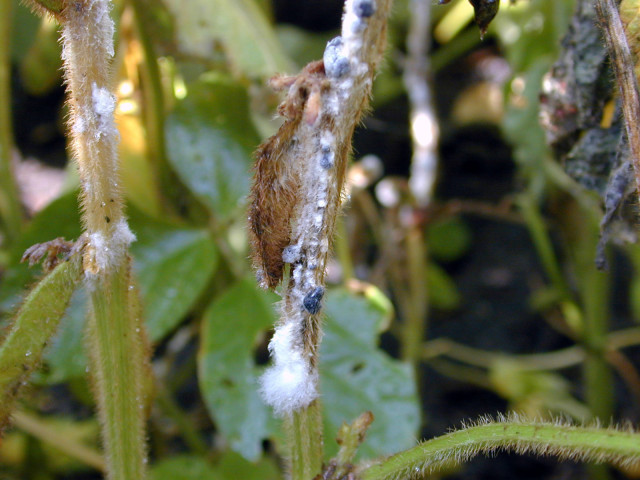
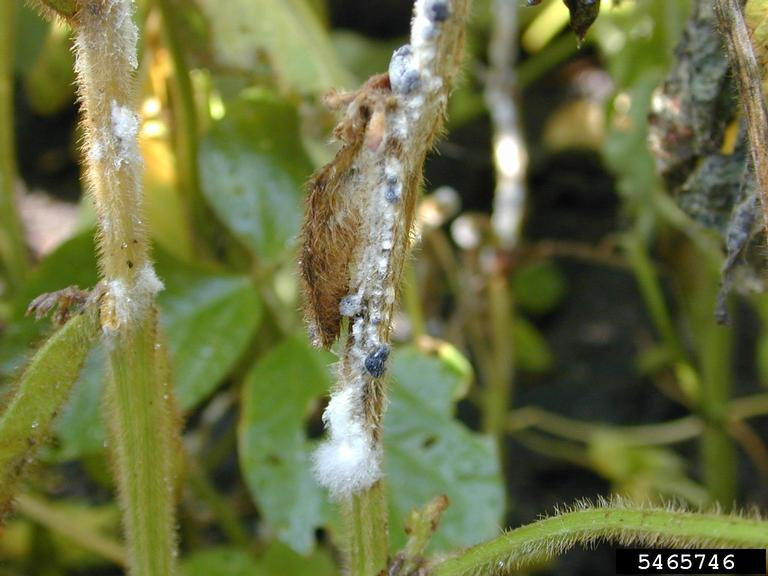
Topic pages: soybean, white mold, frogeye leaf spot, soybean Cercospora leaf blight (I2 batch 4; checked against their sources)

diff --git a/content/topics/white-mold.md b/content/topics/white-mold.md
@@ -4,23 +4,90 @@ title: White Mold (Soybean)
 kind: disease
 crops:
   - soybean
-scientific_name: ''
-summary: ''
+scientific_name: Sclerotinia sclerotiorum
+summary: A fungal disease that kills soybean plants in patches in cool, wet summers; it infects through the flowers, so fungicides and the risk forecast matter from beginning bloom (R1) to beginning pod (R3).
 image: images/white-mold.jpg
-image_credit: to confirm
+image_credit: 'White mold on soybean stems, with white fungal growth and black sclerotia. Photo by Daren Mueller, Iowa State University, Bugwood.org (image 5465746), CC BY 3.0 US (https://creativecommons.org/licenses/by/3.0/us/).'
 status: draft
-updated: 2026-11-17
+updated: 2026-11-18
 sources:
-  - Crop Risk Tool docs/white-mold.md
+  - key: smith-2026
+    text: 'Smith, D., C. Bradley, M. Chilvers and others. An Overview of White Mold (CPN-1005). Crop Protection Network, revised 2026.'
+    url: https://cropprotectionnetwork.org/publications/an-overview-of-white-mold
+  - key: watson-smith-2026
+    text: 'Watson, Q. and D. Smith. Sclerotinia Stem Rot of Soybean (UW Plant Disease Facts D0099). UW–Madison Plant Pathology, revised 2026.'
+    url: https://pddc.wisc.edu/2015/08/16/sclerotinia-stem-rot-of-soybean/
+  - key: a3646-2025
+    text: 'Dewerff, R., E. Bick, P. J. Liesch, G. Nice, M. Renz, D. Smith, R. Werle and J. Kampa. Pest Management in Wisconsin Field Crops (A3646). UW–Madison Division of Extension, 2025.'
+    url: https://cropsandsoils.extension.wisc.edu/files/2025/01/A3646_2025_web.pdf
+  - key: smith-2018
+    text: "Smith, D., S. Conley and R. Schmidt. It's Time for Fireworks and Spores To Fly: Independence Week in Wisconsin Brings White Mold Management Decisions. UW–Madison Integrated Pest and Crop Management, Wisconsin Crop Manager, 2018."
+    url: https://ipcm.wisc.edu/blog/2018/07/its-time-for-fireworks-and-spores-to-fly-independence-week-in-wisconsin-brings-white-mold-management-decisions/
+  - key: tenenbaum-2018
+    text: 'Tenenbaum, D. Phone to farmer: Fungus on the way, time to spray. UW–Madison College of Agricultural and Life Sciences, 2018.'
+    url: https://news.cals.wisc.edu/2018/12/21/phone-to-farmer-fungus-on-the-way-time-to-spray
+  - key: cpn-sporecaster
+    text: 'Smartphone Application to Forecast White Mold in Soybean Now Available to Growers. Crop Protection Network, 2019, with its 2026 update on the app.'
+    url: https://cropprotectionnetwork.org/news/smartphone-application-to-forecast-white-mold-in-soybean-now-available-to-growers
+  - key: willbur-2018
+    text: 'Willbur, J. F., M. L. Fall, C. Bloomingdale and others. Weather-Based Models for Assessing the Risk of Sclerotinia sclerotiorum Apothecial Presence in Soybean (Glycine max) Fields. Plant Disease 102: 73–84, 2018.'
+    url: https://doi.org/10.1094/PDIS-04-17-0504-RE
+  - key: uw-vegpath-potato-white-mold
+    text: 'Potato White Mold. UW–Madison Vegetable Pathology, updated 2026.'
+    url: https://vegpath.plantpath.wisc.edu/diseases/potato-white-mold/
+  - key: agweather-white-mold
+    text: 'AgWeather. White mold model: validation report. UW–Madison, 2026.'
+    url: https://github.com/uwent/agweather2/blob/main/docs/validation/models/white-mold.md
 ---
 
-**White mold** (also called _Sclerotinia_ stem rot) is a significant problem in the North Central soybean production region and Canada. Caused by the fungus _Sclerotinia sclerotiorum_, white mold is often recognized by fluffy, white growth on soybean stems. Initial symptoms generally develop from R3 to R6 as gray to white lesions at the nodes. Lesions rapidly progress above and below the nodes, sometimes girdling the stem. White, fluffy mold soon covers the infected area, especially during periods of high relative humidity. Characteristic black sclerotia eventually are visible and embedded within mold on stem lesions, and inside the stem as the plant approaches death. Initial foliar symptoms include leaf tissues between major veins turning a gray-green cast; eventually leaves die and turn completely brown while remaining attached to the stem. Pods affected by white mold generally contain seeds that are smaller, lighter, white, and cottony. Seeds may be replaced by sclerotia. It is unusual for an infected seed to look normal. Soybean seed lots can be contaminated with sclerotia, the survival structures produced by _S. sclerotiorum_ in infected plants.
+White mold, also called Sclerotinia stem rot, is a disease of soybean caused by the fungus _Sclerotinia sclerotiorum_. It is a major soybean disease in the northern United States and Canada, and it is worst in cool, wet summers, in high-yielding fields with dense canopies. The same fungus attacks most broadleaf crops, including potato, snap bean, carrot, pea and the cabbage family, as well as many broadleaf weeds.[^smith-2026][^watson-smith-2026]
 
-The fungus survives in the soil for several years as sclerotia. The disease cycle begins when mushroom-like structures called apothecia are formed on the soil surface from sclerotia. Spores from apothecia infect senescing soybean flowers and the fungus eventually grows to the stem. The disease is more prevalent during cool, wet, or humid seasons and in fields where the canopy closes during soybean flowering and early pod development.
+## Identification
 
-No soybean variety is completely resistant to white mold, but varieties do range from moderately resistant to very susceptible. At least two or three years of a non-host crop can reduce the number of sclerotia in soil. Crops that should not be in rotation with soybean in fields with white mold risk are beans, peas, sunflowers, and cole crops (mustard or Brassicaceae family). More sclerotia are found near the soil surface in no-till systems, but sclerotia numbers begin to decline if left undisturbed. Early planting, narrow row width, and high plant populations all accelerate canopy closure and favor disease development. However, modification of these practices also may reduce yield potential. Weed control is critical as many broadleaf weeds are hosts of the white mold pathogen. Also, some herbicides may suppress the activity of the fungus or disrupt germination of sclerotia. Some antagonistic fungi may be applied to the soil to colonize and reduce sclerotia numbers. Foliar fungicides can manage white mold, or at least reduce disease severity; however, application timing is critical. Fungicides are most effective when applied immediately before infection.
+- **On stems:** the first sign is a water-soaked patch at a node. It grows up and down the stem until it girdles it, and the stem dies, bleached and shredded.[^smith-2026]
+- **Fungal growth:** in humid weather, white cottony growth covers the lesions. Hard black bodies about the size of mouse droppings, called sclerotia, form on and inside the stems and pods; split a stem to find them.[^watson-smith-2026][^smith-2026]
+- **Whole plants:** leaves on infected stems wilt suddenly and die, and plants wilt, lodge and die, often in patches.[^watson-smith-2026][^smith-2026]
+- **Look-alikes:** white mold can be confused with Phytophthora root rot, so look closely at affected plants.[^a3646-2025]
 
-## More information
+## Life cycle
 
-- Willbur et al 2018: Weather-based models for assessing the risk of Sclerotinia sclerotiorum apothecial presence in soybean (Glycine max) fields <https://doi.org/10.1094/PDIS-04-17-0504-RE>
-- Crop protection network: <https://cropprotectionnetwork.org/encyclopedia/white-mold-of-soybean>
+The fungus survives in the soil as sclerotia for five years or more, and some survive at least eight.[^watson-smith-2026][^smith-2026] Sclerotia in the top 2 inches of soil sprout into small, mushroom-like cups called apothecia when the soil is shaded, moist and cool, which usually means after the crop canopy has closed. The cups release spores (ascospores) that infect open or dying flowers, and the fungus grows from the flower into the stem.[^smith-2026][^watson-smith-2026]
+
+Apothecia are favored when the 30-day average of the daily high temperature is below 68 °F (20 °C), although in irrigated fields they can form even when it is above 80 °F (27 °C). Infection is favored by daily highs below 85 °F and frequent moisture. The risk is highest during flowering, from beginning bloom (R1) to beginning pod (R3), especially under a dense, nearly closed canopy.[^smith-2026] UW–Madison's guide puts it in Wisconsin terms: the risk rises when the 30-day average temperature is 70 °F or below and the weather is wet in the 30 days before bloom, and rises further if it stays wet or humid during bloom.[^a3646-2025]
+
+Practices that raise yield also raise the risk: narrow rows, early planting, more than 160,000 plants per acre, irrigation and high soil fertility.[^a3646-2025]
+
+## Damage
+
+White mold reduces yield through fewer and lighter seeds. Sclerotia mixed in harvested grain can bring price discounts at the elevator, and infected seed may germinate poorly.[^smith-2026] Across the United States, white mold reduces the soybean crop by up to 1 million metric tons a year.[^willbur-2018]
+
+## Monitoring
+
+- Keep records of white mold in each field and variety. A field's history, the variety's resistance and the weather before and during bloom decide whether a fungicide is likely to pay.[^smith-2026][^a3646-2025]
+- From beginning bloom, watch the canopy and the weather. A nearly closed canopy and cool, wet weather together raise the risk.[^smith-2026]
+- Late in the season, look for patches of wilted or dead plants with bleached stems, and split stems to look for sclerotia. Note where the disease was, to guide next year's variety, row width and rotation.[^smith-2026]
+
+## Management
+
+**Nonchemical controls** reduce the number of sclerotia and make the canopy less favorable:
+
+- **Plant resistant varieties.** No soybean variety is fully resistant, but partially resistant varieties are the most economical long-term control. UW–Madison's Wisconsin Soybean Variety Tests (A3654) rate varieties' reactions.[^watson-smith-2026][^a3646-2025]
+- **Rotate.** Two to three years of corn or small grains reduce, but don't eliminate, the risk. Edible beans, snap beans, sunflowers, canola, cole crops and potatoes are hosts and keep sclerotia in the field. Control broadleaf weeds, which are hosts too.[^smith-2026][^a3646-2025]
+- **Open the canopy in high-risk fields.** Moving from 15-inch to 30-inch rows can cut white mold by up to about half, though yield potential may drop. For fields at high risk of white mold, UW–Madison's guide suggests 100,000 to 140,000 seeds per acre in 15- or 30-inch rows.[^smith-2026][^a3646-2025]
+- **Irrigate less often before and during flowering:** infrequent, heavy watering is better than frequent, light watering.[^smith-2026]
+- **Keep sclerotia out:** plant clean seed, and harvest infested fields last so the combine doesn't carry sclerotia to other fields.[^watson-smith-2026]
+- **Biological control:** a soil fungus, _Coniothyrium minitans_, attacks sclerotia. It is applied to the soil at least three months before white mold is likely and worked in about 2 inches deep. It can reduce sclerotia greatly but won't clear a heavy load.[^smith-2026][^a3646-2025]
+
+**Fungicides** reduce white mold but never control it completely: in university trials they cut the disease by anywhere from none to about 60 %. Apply them from beginning bloom (R1) to beginning pod (R3), while flowers are present on the lower half of the stem. Sprays at R4 or later, or after symptoms appear, don't work.[^smith-2026][^watson-smith-2026][^a3646-2025]
+
+- In UW–Madison's ratings, boscalid (an SDHI, FRAC group 7) and fluazinam (group 29) rate highest for white mold. Picoxystrobin (a QoI, group 11) and prothioconazole (a DMI, group 3) rate lower, and tetraconazole (group 3) and thiophanate-methyl (group 1) lower still. Some products are rated only for suppressing white mold, and some need two applications.[^a3646-2025]
+- Thick canopies are hard to cover: use flat-fan nozzles that make droplets of 200 to 400 microns, and more water in dense canopies.[^smith-2026]
+- The herbicide lactofen, applied at or before first bloom, suppresses white mold. It can injure the crop, especially in hot, dry weather.[^a3646-2025][^smith-2026]
+
+For products and current registrations, see UW–Madison's [Pest Management in Wisconsin Field Crops (A3646)](https://cropsandsoils.extension.wisc.edu/files/2025/01/A3646_2025_web.pdf). UW–Madison's [Sclerotinia stem rot fact sheet](https://pddc.wisc.edu/2015/08/16/sclerotinia-stem-rot-of-soybean/) and the Crop Protection Network's [An Overview of White Mold](https://cropprotectionnetwork.org/publications/an-overview-of-white-mold) explain the choices in more detail. White mold of potato and vegetables is caused by the same fungus; for potato, where sprays start at full bloom or row closure, see UW–Madison Vegetable Pathology's [potato white mold page](https://vegpath.plantpath.wisc.edu/diseases/potato-white-mold/).[^uw-vegpath-potato-white-mold]
+
+## AgWeather's models
+
+The [white mold model](/models/white-mold) estimates the probability that apothecia are present in a soybean field. It uses the equations of Willbur and others (2018), developed by a team including UW–Madison from apothecia counts in Iowa, Michigan and Wisconsin: 30-day averages of the daily high temperature, high humidity and high wind speed for non-irrigated fields, and of temperature and humidity with row spacing for irrigated fields. In the paper's tests on new data, the equations were right about 67 to 70 % of the time.[^willbur-2018] UW–Madison's Sporecaster app used the same kinds of models, for non-irrigated fields and for irrigated fields in 15- or 30-inch rows; it has since been retired, and the Crop Protection Network now points growers to its Crop Risk Tool for white mold forecasts.[^smith-2018][^cpn-sporecaster]
+
+We copied the model from the Crop Risk Tool, and it matches the tool exactly, but we haven't compared it with white mold in Wisconsin fields. Its risk levels are the tool's: for non-irrigated fields, High starts at 35 %, a little below the 40 % at which Sporecaster advised a fungicide.[^agweather-white-mold][^tenenbaum-2018] Sporecaster also asked whether the canopy had closed; our model doesn't. The model predicts apothecia, not disease, and shows its risk only from R1 to R3, taken from the [soybean stages model](/models/soybean-stages) or your own dates.[^agweather-white-mold]

diff --git a/content/topics/soybean.md b/content/topics/soybean.md
@@ -4,13 +4,104 @@ title: Soybean
 kind: crop
 crops:
   - soybean
-scientific_name: ''
-summary: ''
-image: null
-image_credit: null
+scientific_name: Glycine max
+summary: One of Wisconsin's major field crops, grown on about 2 million acres a year; its growth stages, from emergence through flowering and pod fill, time the decisions on white mold, leaf diseases and soybean aphid.
+image: images/soybean.jpg
+image_credit: 'A soybean field in Clark County, Wisconsin. Photo by Jeff the quiet, via Wikimedia Commons (File:Grant Clark County Wisc soybeans.jpg), CC0 (public domain dedication); resized.'
 status: draft
-updated: 2026-11-17
-sources: []
+updated: 2026-11-18
+sources:
+  - key: nass-wi-stats
+    text: 'Wisconsin 2026 Agricultural Statistics (annual bulletin; field crops 2021–2025 and usual planting dates). USDA National Agricultural Statistics Service, Wisconsin Field Office, and Wisconsin Department of Agriculture, Trade and Consumer Protection, 2026.'
+    url: https://www.nass.usda.gov/Statistics_by_State/Wisconsin/Publications/Annual_Statistical_Bulletin/
+  - key: conley-2018
+    text: 'Conley, S. Soybean Planting Date and Maturity Group Considerations. UW–Madison Integrated Pest and Crop Management, Wisconsin Crop Manager, 2018.'
+    url: https://ipcm.wisc.edu/blog/2018/04/soybean-planting-date-and-maturity-group-considerations
+  - key: conley-pivot
+    text: 'Conley, S. Agronomic Pivot Points for Mid-May Planted Soybeans (Badger Crop Connect). UW–Madison Division of Extension, Crops and Soils.'
+    url: https://cropsandsoils.extension.wisc.edu/articles/agronomic-pivot-points-for-mid-may-planted-soybeans/
+  - key: isu-stages
+    text: 'Soybean Growth Stages (after Soybean Growth and Development, PM 1945). Iowa State University Extension and Outreach, Integrated Crop Management, reviewed 2026.'
+    url: https://crops.extension.iastate.edu/encyclopedia/soybean-growth-stages
+  - key: uw-soy-development
+    text: 'Soybean Growth and Development (adapted from Iowa State University Special Report 53, How a Soybean Plant Develops). UW–Madison Corn Agronomy, 2015.'
+    url: https://corn.aae.wisc.edu/Crops/Soybean/L004.aspx
+  - key: a3646-2025
+    text: 'Dewerff, R., E. Bick, P. J. Liesch, G. Nice, M. Renz, D. Smith, R. Werle and J. Kampa. Pest Management in Wisconsin Field Crops (A3646). UW–Madison Division of Extension, 2025.'
+    url: https://cropsandsoils.extension.wisc.edu/files/2025/01/A3646_2025_web.pdf
+  - key: watson-smith-2026
+    text: 'Watson, Q. and D. Smith. Sclerotinia Stem Rot of Soybean (UW Plant Disease Facts D0099). UW–Madison Plant Pathology, revised 2026.'
+    url: https://pddc.wisc.edu/2015/08/16/sclerotinia-stem-rot-of-soybean/
+  - key: bradley-2016
+    text: 'Bradley, C., M. Chilvers, A. Freije and others. An Overview of Frogeye Leaf Spot (CPN-1017). Crop Protection Network, 2016.'
+    url: https://cropprotectionnetwork.org/publications/an-overview-of-frogeye-leaf-spot
+  - key: price-2025
+    text: 'Price, T., T. Allen, V. Doyle and others. An Overview of Cercospora Leaf Blight (CPN-1030). Crop Protection Network, 2025.'
+    url: https://cropprotectionnetwork.org/publications/an-overview-of-cercospora-leaf-blight-of-soybean
+  - key: wcm
+    text: 'Wisconsin Crop Manager archive. UW–Madison Integrated Pest and Crop Management.'
+    url: https://ipcm.wisc.edu/wcm/
+  - key: smith-rcr-2026
+    text: 'Smith, D. 2026 Mid-Season Wisconsin Field Crop Disease Update (video and transcript). UW–Madison Division of Extension, Crops and Soils, 2026.'
+    url: https://cropsandsoils.extension.wisc.edu/articles/2026-mid-season-wisconsin-field-crop-disease-update/
+  - key: agweather-soybean-stages
+    text: 'AgWeather. Soybean growth stages model: validation report. UW–Madison, 2026.'
+    url: https://github.com/uwent/agweather2/blob/main/docs/validation/models/soybean-stages.md
+  - key: agweather-red-crown-rot
+    text: 'AgWeather. Red crown rot model: validation report. UW–Madison, 2026.'
+    url: https://github.com/uwent/agweather2/blob/main/docs/validation/models/red-crown-rot.md
 ---
 
-To write: the subject, and how to manage it.
+The soybean (_Glycine max_) is one of Wisconsin's major field crops: the state's farmers plant about 2 million acres a year, most of it between early May and mid-June, and Dane, Rock, Dodge and Grant counties grow the most.[^nass-wi-stats] Many of the crop's diseases and pests strike at particular growth stages, so a grower's decisions on fungicides and insecticides are timed by the crop's stage rather than the calendar. This page describes those stages and links to the diseases AgWeather models.
+
+## Soybeans in Wisconsin
+
+Planting early pays in Wisconsin. Early May planting has been shown to raise yields, partly because early-planted soybeans spend longer in their reproductive stages during the longest days of the year: in UW–Madison's research, a May 1 planting spent about 60 days from beginning bloom (R1) to full seed (R6), against about 45 days for a June 1 planting.[^conley-2018] In southern Wisconsin, yield potential falls by about 2 bushels per acre for each week planting is delayed past about April 10.[^conley-pivot]
+
+In UW–Madison trials planted in mid-May, varieties from maturity group 1 through 2.9 yielded about the same, and UW–Madison advises against switching to an earlier group when planting is delayed into early June.[^conley-pivot] Thirty-inch rows suit soybeans planted in April, while narrower rows of 15 to 20 inches suit mid-May and later plantings; UW–Madison's usual suggestion is about 140,000 seeds per acre.[^conley-pivot] Narrow rows and high populations also raise the risk of white mold, so fields with a history of it may need wider rows and fewer seeds.[^a3646-2025]
+
+## Growth stages
+
+A field is at a stage when at least half its plants have reached it.[^isu-stages]
+
+- **VE, emergence:** the cotyledons have been pulled through the soil surface, usually 1 to 2 weeks after planting, depending on soil moisture, soil temperature and planting depth.[^isu-stages][^uw-soy-development]
+- **VC, unifoliate leaves:** the first pair of single leaves has unfolded.[^isu-stages]
+- **V1, V2 and on:** each stage adds a fully unfolded trifoliolate leaf. New V-stages appear about every 5 days up to V5, then about every 3 days.[^isu-stages][^uw-soy-development]
+- **R1, beginning bloom:** at least one open flower on any node.
+- **R2, full bloom:** an open flower at one of the two uppermost nodes.
+- **R3, beginning pod:** a pod 3/16 inch long at one of the four uppermost nodes.
+- **R4, full pod:** a pod ¾ inch long at one of the four uppermost nodes.
+- **R5, beginning seed:** a seed ⅛ inch long in a pod at one of the four uppermost nodes on the main stem.
+- **R6, full seed:** a pod with a green seed that fills its cavity at one of the four uppermost nodes.
+- **R7, beginning maturity:** one normal pod on the main stem has reached its mature color.
+- **R8, full maturity:** 95 % of the pods have reached their mature color.[^isu-stages]
+
+## What the stages mean for pests and diseases
+
+- **Beginning bloom to beginning pod (R1 to R3):** [white mold](/topics/white-mold) infects through the flowers, so fungicide decisions for it are made in this window.[^watson-smith-2026]
+- **Beginning bloom to beginning seed (R1 to R5):** soybean aphids, which spend the winter on buckthorn, are worth treating when about 80 % of the field averages 250 aphids per plant and the numbers are rising. Treatments in this window give the best yield response; by full seed (R6) it is too late to protect yield. UW–Madison advises intensive scouting from the mid-vegetative stages, usually mid- to late June.[^a3646-2025]
+- **Pod development (R3 to R4):** fungicides for [frogeye leaf spot](/topics/frogeye-leaf-spot) work best now.[^bradley-2016]
+- **Beginning seed (R5) on:** [Cercospora leaf blight](/topics/soybean-cercospora-leaf-blight) usually shows on the upper leaves.[^price-2025]
+- **Around beginning bloom (R1):** [red crown rot](/topics/red-crown-rot), a root and stem rot long known in the South, has spread through the Midwest and was first confirmed in Wisconsin in 2025, in one field in Columbia County.[^smith-rcr-2026] AgWeather's model links it to the weather in the month before and the month after R1.[^agweather-red-crown-rot]
+
+Late planting raises the risk from leaf diseases: yield losses from them are more frequent in soybeans planted after June 1.[^a3646-2025]
+
+## Monitoring
+
+- Record each field's planting date, variety and maturity group, and the dates it reaches beginning bloom (R1) and beginning pod (R3). AgWeather's disease models use these stages.
+- Read UW–Madison's [Wisconsin Crop Manager](https://ipcm.wisc.edu/wcm/) in season for research and scouting updates.[^a3646-2025][^wcm]
+- Scout for soybean aphids weekly from the mid-vegetative stages, usually mid- to late June, counting aphids on 20 to 30 plants across each field.[^a3646-2025]
+
+## Management
+
+Many problems are settled before planting. Rotating with corn, small grains or most forages deprives soybean pathogens of a host, since few of them infect other crops, and residue that breaks down before the next soybean crop carries fewer diseases.[^a3646-2025] Balanced phosphorus and potash help, too: shortages raise losses to several diseases and to soybean cyst nematode.[^a3646-2025] Varieties differ widely in their resistance to white mold and other diseases; UW–Madison's Wisconsin Soybean Variety Tests (A3654) compare them.[^a3646-2025] For products, see UW–Madison's [Pest Management in Wisconsin Field Crops (A3646)](https://cropsandsoils.extension.wisc.edu/files/2025/01/A3646_2025_web.pdf); for planting dates, row widths and seeding rates, see UW–Madison's [Agronomic Pivot Points for Mid-May Planted Soybeans](https://cropsandsoils.extension.wisc.edu/articles/agronomic-pivot-points-for-mid-may-planted-soybeans/).
+
+## AgWeather's models
+
+- The [soybean stages model](/models/soybean-stages) estimates each day's stage, from emergence to beginning maturity (R7), from planting date, maturity group, seeding depth, temperature and day length. It follows the SOYDEV model published by Setiyono and others in 2007. On six published seasons at Lincoln, Nebraska, it put beginning bloom within 6 days of the observed date and beginning maturity within 3 days; those seasons were probably among the data the model was built from, and it hasn't yet been checked against Wisconsin fields. It places R2, R3, R4 and R6 between the stages it predicts, marked as estimates, and doesn't predict R8. Maps assume maturity group 2.0 everywhere.[^agweather-soybean-stages]
+- The [white mold model](/models/white-mold) gives the chance that the fungus's spore cups are present, from R1 to R3.
+- The [frogeye leaf spot model](/models/frogeye-leaf-spot) gives the chance its spores are present, from R1 to R5.
+- The [soybean Cercospora model](/models/soybean-cercospora) gives the chance of spores of three Cercospora species, from R3 to R6.
+- The [red crown rot model](/models/red-crown-rot) predicts the share of plants with symptoms from the weather around R1. It was developed in Japan and hasn't been tested in the United States.[^agweather-red-crown-rot]
+
+The three leaf and stem disease models were copied from the Crop Protection Network's Crop Risk Tool and haven't yet been compared with disease in Wisconsin fields; their pages explain their limits. At a location, you can enter your own planting or emergence date and maturity group in place of the typical dates, and the disease models follow the stages they give.

diff --git a/content/topics/frogeye-leaf-spot.md b/content/topics/frogeye-leaf-spot.md
@@ -4,22 +4,81 @@ title: Frogeye Leaf Spot (Soybean)
 kind: disease
 crops:
   - soybean
-scientific_name: ''
-summary: ''
+scientific_name: Cercospora sojina
+summary: A fungal leaf spot of soybean, favored by warm, humid weather, that has spread north into Wisconsin; resistant varieties, rotation and well-timed fungicides from more than one group control it.
 image: images/frogeye-leaf-spot.jpg
-image_credit: to confirm
+image_credit: 'Frogeye leaf spots, with pale centers and dark reddish borders, on a soybean leaf in Iowa. Photo by Daren Mueller, Iowa State University, Bugwood.org (image 5625040), CC BY 3.0 US (https://creativecommons.org/licenses/by/3.0/us/).'
 status: draft
-updated: 2026-11-17
+updated: 2026-11-18
 sources:
-  - Crop Risk Tool docs/frogeye.md
+  - key: bradley-2016
+    text: 'Bradley, C., M. Chilvers, A. Freije and others. An Overview of Frogeye Leaf Spot (CPN-1017). Crop Protection Network, 2016.'
+    url: https://cropprotectionnetwork.org/publications/an-overview-of-frogeye-leaf-spot
+  - key: cpn-frogeye
+    text: 'Frogeye Leaf Spot of Soybean. Crop Protection Network, Soybean Disease Encyclopedia.'
+    url: https://cropprotectionnetwork.org/encyclopedia/frogeye-leaf-spot-of-soybean
+  - key: malvick-2018
+    text: 'Malvick, D. Frogeye leaf spot on soybean. University of Minnesota Extension, reviewed 2018.'
+    url: https://extension.umn.edu/agriculture/crop-production/soybean/frogeye-leaf-spot
+  - key: stoetzer-2018
+    text: 'Stoetzer, E. Frogeye Leaf Spot Making Appearance Across Iowa Soybeans. Iowa State University Extension and Outreach, Integrated Crop Management, 2018.'
+    url: https://crops.extension.iastate.edu/cropnews/2018/08/frogeye-leaf-spot-making-appearance-across-iowa-soybeans
+  - key: stoetzer-mueller-2020
+    text: 'Stoetzer, E. and D. S. Mueller. Instances of Frogeye Leaf Spot Resistance to QoIs Abundant in Iowa. Iowa State University Extension and Outreach, Integrated Crop Management, 2020.'
+    url: https://crops.extension.iastate.edu/cropnews/2020/01/instances-frogeye-leaf-spot-resistance-qois-abundant-iowa
+  - key: a3646-2025
+    text: 'Dewerff, R., E. Bick, P. J. Liesch, G. Nice, M. Renz, D. Smith, R. Werle and J. Kampa. Pest Management in Wisconsin Field Crops (A3646). UW–Madison Division of Extension, 2025.'
+    url: https://cropsandsoils.extension.wisc.edu/files/2025/01/A3646_2025_web.pdf
+  - key: agweather-frogeye
+    text: 'AgWeather. Frogeye leaf spot model: validation report. UW–Madison, 2026.'
+    url: https://github.com/uwent/agweather2/blob/main/docs/validation/models/frogeye-leaf-spot.md
 ---
 
-**Frogeye leaf spot** is caused by the fungus _Cercospora sojina_. The disease occurs across the United States and in Ontario, Canada. Frogeye leaf spot can cause significant yield loss when widespread within a field. Leaf lesions are small, irregular to circular in shape, and gray with reddish-brown borders. Most commonly occurring on the upper leaf surface, lesions start as dark, water-soaked spots that vary in size. As lesions age, the central area becomes gray to light brown with dark, red-brown margins. In severe cases, disease can cause premature leaf drop and will spread to stems and pods.
+Frogeye leaf spot is a leaf disease of soybean caused by the fungus _Cercospora sojina_. It occurs across the United States and in Ontario, Canada. Long a disease of the South, it has been reported as far north as southern Wisconsin, and UW–Madison's field crops guide notes that it is becoming more common in the state. Hot, humid weather favors it.[^bradley-2016][^malvick-2018][^a3646-2025]
 
-The fungus survives in infested crop residue and infected seed. Early season infections contribute to infection of foliage and pods later in the season. Warm, humid weather promotes spore production, infection, and disease development. Young leaves are more susceptible to infection than older leaves, but visible lesions are not seen on young, expanding leaves because the lesions take two weeks to develop after infection.
+## Identification
 
-Resistant soybean varieties are available and should be used where disease is a potential problem. Several races of the pathogen have been identified, and varieties with resistance to all known races are available. Rotating to a non-host crop and tillage will reduce survival of _C. sojina_. Crops not susceptible to this pathogen are alfalfa, corn, and small grains. Foliar fungicides applied during late flowering and early pod set to pod filling stages can reduce frogeye leaf spot.If you believe fungicide resistance may be an issue in your field, contact your local extension specialist.
+- **On leaves:** the first spots are tiny, dark and water-soaked, on the upper side of the leaf. As they grow, round or angular, their centers fade from gray through brown to light tan, ringed by a thin reddish-purple edge: the "frog eye." Some varieties show a light green halo around each spot. In favorable weather the underside of the spot turns gray and fuzzy as the fungus makes spores.[^bradley-2016]
+- **Old spots:** the centers may turn white or fall out, leaving a shot-hole look.[^malvick-2018]
+- **Where:** young leaves are the most susceptible, so spots usually show in the upper canopy.[^bradley-2016]
+- **Stems, pods and seed:** stem lesions are long and hard to recognize late in the season; pod lesions are oblong and look like the leaf spots. Infected seed can turn light purple to gray, or show nothing.[^bradley-2016]
+- **Look-alikes:** Phyllosticta leaf spot and injury from PPO herbicides or paraquat can look similar. If you aren't sure, send a sample to a plant disease lab.[^stoetzer-2018]
 
-## More information
+## Life cycle
 
-- Crop protection network: <https://cropprotectionnetwork.org/encyclopedia/frogeye-leaf-spot-of-soybean>
+The fungus survives the winter in soybean residue, where it can last at least two years, and in seed, though spread by seed is rarely seen in the field. Wind and splashing rain carry its spores to soybean leaves, within a field and to neighboring fields.[^bradley-2016]
+
+Infection can happen at any stage but is most common after flowering, and symptoms are usually seen from beginning bloom (R1) to beginning maturity (R7). Spots take about two weeks to appear after infection, so they don't show on young, expanding leaves even though those are infected most easily.[^bradley-2016][^cpn-frogeye] The disease is favored by warm, humid weather with frequent rain over a long stretch, and by several overcast days in a row.[^bradley-2016]
+
+The risk is highest in fields with a history of the disease, in continuous soybean or short rotations, in conservation tillage and with susceptible varieties.[^stoetzer-2018]
+
+## Damage
+
+Severe frogeye leaf spot can strip leaves early. Yield losses can reach 35 % when a severe outbreak starts early or just after flowering, but they are small if the disease starts partway through seed fill (after R5.5) or stays light. Infected seed may also be discolored.[^bradley-2016]
+
+## Monitoring
+
+- Scout the upper canopy from flowering on, starting with susceptible varieties and fields where frogeye leaf spot has been found before.[^bradley-2016][^stoetzer-2018]
+- There is no set threshold for spraying. Weigh the crop's stage, the weather, the field's history and the variety's resistance.[^stoetzer-2018]
+- If you spray, scout again about two weeks later to see whether the fungicide controlled the disease. Poor control can be a sign of fungicide resistance; contact your county Extension office or a crop disease specialist.[^bradley-2016][^stoetzer-2018]
+
+## Management
+
+**Nonchemical controls** reduce the fungus carried from one soybean crop to the next:
+
+- **Plant resistant varieties** where the disease is a concern. The _Rcs3_ resistance gene has worked against every race of the fungus known in North America, but some varieties sold as resistant are only partly so.[^bradley-2016][^stoetzer-2018]
+- **Rotate** with corn, small grains or alfalfa, which aren't hosts. After a severe outbreak, a longer rotation may be needed.[^bradley-2016][^cpn-frogeye]
+- **Bury or break down residue** by tillage where the disease was severe, and plant clean seed.[^bradley-2016][^malvick-2018]
+
+**Fungicides** applied during pod development, at beginning pod (R3) to full pod (R4), work best. No fungicide gives complete control on a susceptible variety.[^bradley-2016][^stoetzer-2018]
+
+- **Don't rely on QoI fungicides (strobilurins, FRAC group 11).** Strains of the fungus that resist them have been found in North America, and they can be widespread: an Iowa State survey found resistant strains in nearly every one of 73 fields across 51 Iowa counties. The resistance usually comes from a single change in the fungus, so a strain that resists one QoI most likely resists them all. UW–Madison's guide rates QoI products used alone as poor to fair against frogeye leaf spot.[^bradley-2016][^stoetzer-mueller-2020][^a3646-2025]
+- **Use other groups, or mixtures that contain them.** In UW–Madison's ratings, thiophanate-methyl (FRAC group 1), prothioconazole (a DMI, group 3) and some mixtures of a DMI with a QoI, or with a QoI and an SDHI (group 7), rate very good. Rotate groups, and never rely on a single group.[^a3646-2025][^bradley-2016]
+
+For products and current registrations, see UW–Madison's [Pest Management in Wisconsin Field Crops (A3646)](https://cropsandsoils.extension.wisc.edu/files/2025/01/A3646_2025_web.pdf). The Crop Protection Network's [An Overview of Frogeye Leaf Spot](https://cropprotectionnetwork.org/publications/an-overview-of-frogeye-leaf-spot) and Iowa State's article on [fungicide resistance in frogeye leaf spot](https://crops.extension.iastate.edu/cropnews/2020/01/instances-frogeye-leaf-spot-resistance-qois-abundant-iowa) explain the choices in more detail.
+
+## AgWeather's models
+
+The [frogeye leaf spot model](/models/frogeye-leaf-spot) estimates the probability that the fungus's spores are present, from 30-day averages of the daily high temperature and of the hours each day with relative humidity of 80 % or more. Its risk rises steadily with warmth and humid hours. It shows the risk only from beginning bloom (R1) to beginning seed (R5), taken from the [soybean stages model](/models/soybean-stages) or your own dates.[^agweather-frogeye]
+
+We copied the model from the Crop Protection Network's Crop Risk Tool, and it matches the tool exactly. The tool credits the equation to Damon Smith (UW–Madison) and Richard Webster (North Dakota State University), but we haven't found it published, so we can't say where, in which years or on what weather it was fitted, or whether it predicts spores caught in traps or disease in fields. Its risk levels (Moderate from 40 %, High from 50 %) are the tool's, and we haven't compared the model with frogeye leaf spot in Wisconsin fields. Read it as a sign of when the weather favors the fungus, alongside scouting, the field's history and the variety's resistance.[^agweather-frogeye]

diff --git a/content/topics/soybean-cercospora-leaf-blight.md b/content/topics/soybean-cercospora-leaf-blight.md
@@ -4,18 +4,77 @@ title: Cercospora Leaf Blight (Soybean)
 kind: disease
 crops:
   - soybean
-scientific_name: ''
-summary: ''
+scientific_name: Cercospora spp.
+summary: A late-season fungal disease that turns the upper soybean leaves purple and bronze and stains seed purple; it is more common in the South, but it occurs in Wisconsin in warm, humid summers.
 image: images/soybean-cercospora-leaf-blight.jpg
-image_credit: to confirm
+image_credit: 'Bronzed upper soybean leaves with Cercospora leaf blight, Wisconsin. Photo by Craig Grau, Bugwood.org (image 5624626), CC BY-NC 3.0 US (https://creativecommons.org/licenses/by-nc/3.0/us/).'
 status: draft
-updated: 2026-11-17
+updated: 2026-11-18
 sources:
-  - Crop Risk Tool docs/cercospora-soybean.md
+  - key: price-2025
+    text: 'Price, T., T. Allen, V. Doyle and others. An Overview of Cercospora Leaf Blight (CPN-1030). Crop Protection Network, 2025.'
+    url: https://cropprotectionnetwork.org/publications/an-overview-of-cercospora-leaf-blight-of-soybean
+  - key: cpn-clb
+    text: 'Cercospora Leaf Blight of Soybean. Crop Protection Network, Soybean Disease Encyclopedia.'
+    url: https://cropprotectionnetwork.org/encyclopedia/cercospora-leaf-blight-of-soybean
+  - key: malvick-clb
+    text: 'Malvick, D. Cercospora leaf blight and purple seed stain of soybean. University of Minnesota Extension, reviewed 2018.'
+    url: https://extension.umn.edu/agriculture/crop-production/soybean/cercospora-leaf-blight-and-purple-seed-stain-on-soybean
+  - key: a3646-2025
+    text: 'Dewerff, R., E. Bick, P. J. Liesch, G. Nice, M. Renz, D. Smith, R. Werle and J. Kampa. Pest Management in Wisconsin Field Crops (A3646). UW–Madison Division of Extension, 2025.'
+    url: https://cropsandsoils.extension.wisc.edu/files/2025/01/A3646_2025_web.pdf
+  - key: smith-2014
+    text: 'Smith, D. L. Cercospora Leaf Blight and Purple Seed Stain of Soybean. UW–Madison Integrated Pest and Crop Management, Wisconsin Crop Manager, 2014.'
+    url: https://ipcm.wisc.edu/blog/2014/07/cercospora-leaf-blight-and-purple-seed-stain-of-soybean/
+  - key: agweather-soybean-cercospora
+    text: 'AgWeather. Soybean Cercospora leaf blight model: validation report. UW–Madison, 2026.'
+    url: https://github.com/uwent/agweather2/blob/main/docs/validation/models/soybean-cercospora.md
 ---
 
-**Cercospora leaf blight** is caused by the fungus _Cercospora flagellaris_ and other _Cercospora_ species. This disease is frequently observed in soybean fields. Foliar symptoms usually are seen at the beginning of seed set and occur in the uppermost canopy on leaves exposed to the sun. Leaves are typically only discolored on the upper surface with symptoms ranging from light purple, pinpoint spots to larger, irregularly shaped patches. Affected leaves may become leathery and dark purple with bronze highlights. Symptoms may be confused with sunburn, which typically occurs on the leaf underside. Warm and wet weather favors infection and development of disease. There are commercially available varieties resistant to Cercospora leaf blight. Foliar fungicides are registered for Cercospora leaf blight. Although caused by the same organisms, there is no consistent relationship between occurrence of Cercospora leaf blight and purple seed stain.
+Cercospora leaf blight is a late-season disease of soybean leaves, leaf stalks (petioles), stems and pods, caused by several species of _Cercospora_ fungi. The disease was long blamed on _C. kikuchii_, but a survey across the South, from Texas to Alabama and north to Missouri and Kentucky, found _C. flagellaris_ the main species. Others, such as _C. sigesbeckiae_, also occur in the United States. Which species matter most farther north isn't well known.[^price-2025] The same fungi cause purple seed stain. The disease is most common in the South, but it also occurs in the northern Midwest. UW–Madison's field crops guide notes that it is becoming more common in Wisconsin, and the state's field crops pathologist has found it in fields around the state.[^malvick-clb][^smith-2014][^a3646-2025]
 
-## More information
+## Identification
 
-- Crop Protection Network Encyclopedia: <https://cropprotectionnetwork.org/encyclopedia/cercospora-leaf-blight-of-soybean>
+- **When and where:** symptoms usually appear from beginning seed (R5) on, on the upper leaves exposed to the sun.[^price-2025][^cpn-clb]
+- **On leaves:** the first signs are small purplish specks or light purple patches on the upper surface. The upper canopy then turns bronze to purple, and the leaves feel leathery and look sunburned. Brown dead areas can follow, and the upper leaves may drop.[^price-2025][^malvick-clb]
+- **On petioles, stems and pods:** purple to reddish-purple lesions form on the leaf stalks. In severe cases, or on very susceptible varieties, the main stem and pods can turn dark purple.[^price-2025][^malvick-clb]
+- **On seed:** purple seed stain shows as pink to deep purple patches on the seed coat. Leaf blight in a field doesn't reliably predict purple seed stain, or the reverse.[^malvick-clb][^price-2025][^cpn-clb]
+- **Look-alikes:** sunburn causes brick-red color between the veins, mostly on the underside of the leaf, where leaf blight is mostly on the upper side. Chloride toxicity follows the leaf edges. Frogeye leaf spot makes gray spots with reddish-brown borders, and its seed stain is light purple to gray rather than deep purple.[^price-2025]
+
+## Life cycle
+
+The fungi survive the winter on crop residue and in infected seed, which can bring the disease into a field at planting. Rain and wind spread spores within the crop. Plants can be infected from flowering until maturity, though symptoms show late. Warm, humid weather with long dew periods favors the disease.[^price-2025][^malvick-clb]
+
+Late-planted soybeans and later-maturing susceptible varieties are at higher risk. Besides soybean, the fungi can infect corn, cotton, pokeweed and ragweed.[^price-2025]
+
+## Damage
+
+Losses range from mild to severe. In bad years leaf blight can strip the upper canopy, though complete defoliation is rare, and purple seed stain lowers seed quality. Severe losses are mainly a problem in the South.[^price-2025][^malvick-clb]
+
+## Monitoring
+
+- Scout the upper canopy from beginning pod through seed fill, and watch for the purple and bronze color on leaves in full sun.[^price-2025]
+- Rule out sunburn, chloride toxicity and frogeye leaf spot before deciding on a fungicide. If you aren't sure, send a sample to a plant disease lab.[^price-2025]
+- At harvest, note purple seed stain in each variety, and keep stained seed out of next year's planting.[^malvick-clb]
+
+## Management
+
+**Nonchemical controls** come first:
+
+- **Choose varieties with low susceptibility**, using ratings from trials near your farm.[^price-2025][^malvick-clb]
+- **Plant clean seed.**[^malvick-clb]
+- **Rotate out of soybeans, or till,** so residue breaks down before the next soybean crop.[^price-2025][^a3646-2025]
+
+**Fungicides** from more than one group, applied at the right stage, are the main chemical control:
+
+- **QoI fungicides (strobilurins, FRAC group 11) are likely no longer effective:** resistance to them has been confirmed in eight states.[^price-2025]
+- **Some mixtures of an SDHI (group 7) and a DMI (group 3),** applied from beginning pod (R3) to beginning seed (R5), remain effective.[^price-2025]
+- In UW–Madison's ratings, no fungicide rates better than fair to good against Cercospora leaf blight.[^a3646-2025]
+
+For products and current registrations, see UW–Madison's [Pest Management in Wisconsin Field Crops (A3646)](https://cropsandsoils.extension.wisc.edu/files/2025/01/A3646_2025_web.pdf). The Crop Protection Network's [An Overview of Cercospora Leaf Blight](https://cropprotectionnetwork.org/publications/an-overview-of-cercospora-leaf-blight-of-soybean) and Minnesota's [Cercospora leaf blight and purple seed stain](https://extension.umn.edu/agriculture/crop-production/soybean/cercospora-leaf-blight-and-purple-seed-stain-on-soybean) explain the choices in more detail.
+
+## AgWeather's models
+
+The [soybean Cercospora model](/models/soybean-cercospora) estimates the probability of spores for three species from recent weather: _C. flagellaris_ from the minimum temperature and the gap between temperature and dew point over 5 days; _C. sigesbeckiae_ from the highest wind speeds over 14 days and the humid hours over 10 days; and _C. kikuchii_ from the humid hours over 14 days and the largest gap between temperature and dew point over 5 days. The risk shown is the highest of the three.[^agweather-soybean-cercospora]
+
+The model is a beta version, and its limits are large. We copied it from the Crop Protection Network's Crop Risk Tool, and it matches the tool exactly, but the equations are Richard Webster's (North Dakota State University) and haven't been published. We don't know where, in which years or on what weather they were fitted, whether they predict spores caught in traps or disease in fields, or which crop stages they apply to. We show the risk from beginning pod (R3) to full seed (R6) as our own provisional choice. Nor do we know whether the _C. sigesbeckiae_ equation was fitted to wind in kilometers per hour or in meters per second. We follow the tool, which uses kilometers per hour; read the other way, the same weather can give that species a probability of 86 % instead of 6 %. The model hasn't been compared with Cercospora leaf blight in fields, so treat it as a rough guide.[^agweather-soybean-cercospora]
